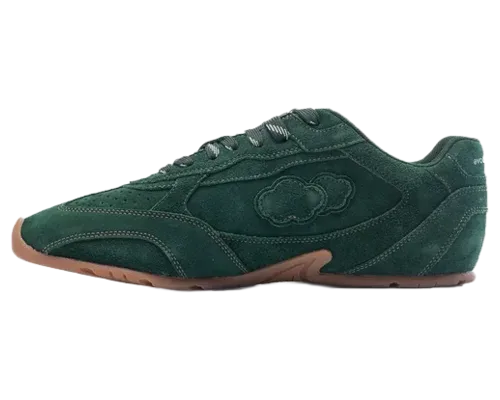
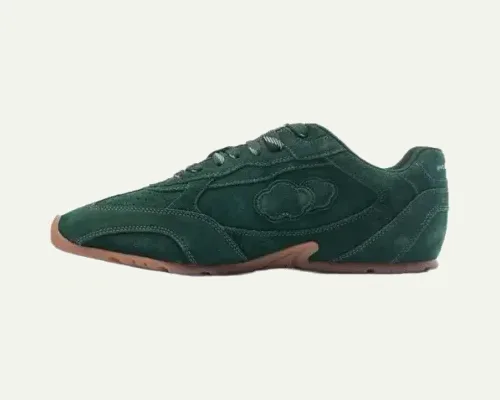
DROP 01: shoes at one scale, sections numbered plainly, receipt without totals
Every closet image is trimmed to the shoe, fitted into the same 400x290 box
and centred on a 500x400 canvas in the page's paper colour, with the product
shots' white backgrounds recoloured to paper so nothing seams; the crates
add a consistent inner pad. Section runheads drop the word "Lot" — the nav
already numbers them and "Lot" belongs to the work — the register counts
"Pair 01–07", and the cover crate is "Lot 00 · The account holder". The
cover loses its bottom rule; the crate's edge is the break. The receipt's
entries/source footer goes.

Claude-Session: https://claude.ai/code/session_01GFvP9XJHX5bu9LUWUzbNcf

diff --git a/drop-01/src/components/Receipt.jsx b/drop-01/src/components/Receipt.jsx
@@ -17,7 +17,7 @@ export default function Receipt() {
     <section id="statement" aria-labelledby="statement-heading" className="border-b-[3px] border-ink">
       <div className="mx-auto max-w-[1440px] px-4 md:px-8 py-14 md:py-28 grid grid-cols-12 gap-6">
         <div className="col-span-12 md:col-span-5 flex flex-col gap-4">
-          <p><span className="runhead">Lot 01 / Statement</span></p>
+          <p><span className="runhead">01 / Statement</span></p>
           <h2 id="statement-heading" className="head text-[clamp(32px,3.8vw,58px)]">
             Statement of account
           </h2>
@@ -69,20 +69,12 @@ export default function Receipt() {
               ))}
             </dl>
             <p className="label mt-5 pt-3 border-t-2 border-dashed border-ink">Off the books</p>
-            <dl>
+            <dl className="mb-1">
               {OFF_THE_BOOKS.map(([k, v]) => (
                 <Line key={k} k={k}>{v}</Line>
               ))}
             </dl>
-            <div className="mt-5 pt-4 border-t-[3px] border-dashed border-ink flex justify-between font-bold uppercase text-sm">
-              <span>Entries</span>
-              <span className="mono-wide">{String(STATEMENT.length + OFF_THE_BOOKS.length).padStart(2, '0')}</span>
-            </div>
-            <div className="flex justify-between font-bold uppercase text-sm">
-              <span>Source</span>
-              <span>Résumé, {DROP.issued.slice(0, 4)}</span>
-            </div>
-            <p className="label mt-4 mono-cond">No amounts fabricated · Keep for your records</p>
+            
           </div>
         </div>
       </div>

diff --git a/drop-01/src/components/Custody.jsx b/drop-01/src/components/Custody.jsx
@@ -10,7 +10,7 @@ export default function Custody() {
       <div className="mx-auto max-w-[1440px] px-4 md:px-8 py-14 md:py-28 grid grid-cols-12 gap-6">
         <div className="col-span-12 flex flex-wrap items-end justify-between gap-4">
           <div>
-            <p><span className="runhead">Lot 06 / Custody</span></p>
+            <p><span className="runhead">06 / Custody</span></p>
             <h2 id="custody-heading" className="head text-[clamp(32px,3.8vw,58px)]">
               Custody register
             </h2>
@@ -22,10 +22,10 @@ export default function Custody() {
           {CUSTODY.map((p) => (
             <li key={p.id} className={`col-span-12 sm:col-span-6 border-2 border-ink p-4 flex flex-col gap-3 bg-paper text-ink ${p.n === '07' ? 'lg:col-span-8' : 'lg:col-span-4'}`}>
               <p className="label flex justify-between">
-                <span className="mono-wide">Lot {p.n}</span>
+                <span className="mono-wide">Pair {p.n}</span>
                 <span>In rotation</span>
               </p>
-              <div className="border-2 border-ink bg-paper aspect-[5/4] lg:aspect-auto lg:h-[300px] flex items-center justify-center overflow-hidden">
+              <div className="border-2 border-ink bg-paper aspect-[5/4] lg:aspect-auto lg:h-[300px] p-3 flex items-center justify-center overflow-hidden">
                 <img src={p.image.src} width={p.image.w} height={p.image.h} alt={`${p.brand} ${p.model}`} loading="lazy" className="block w-full h-full object-contain" />
               </div>
               <h3 className="head-sm text-[clamp(22px,2vw,30px)]">

diff --git a/drop-01/src/components/Cover.jsx b/drop-01/src/components/Cover.jsx
@@ -6,12 +6,12 @@ import { DROP, PERSON, PORTRAIT } from '../data/identity.js';
 export default function Cover() {
   const { dayJob } = PERSON;
   return (
-    <section id="cover" aria-labelledby="cover-heading" className="border-b-[3px] border-ink">
+    <section id="cover" aria-labelledby="cover-heading">
       <div className="mx-auto max-w-[1440px] px-4 md:px-8 py-8 md:py-12">
         <div className="border-[3px] border-ink bg-paper shadow-hard-14 md:grid md:grid-cols-[minmax(0,5fr)_minmax(0,7fr)]">
           <p className="label flex flex-wrap justify-between gap-x-6 px-4 py-2 border-b-[3px] border-ink md:col-span-2">
             <span><span className="mono-wide">DROP {DROP.number}</span> · Issued {DROP.issued}</span>
-            <span>Lot 00 / Cover · In custody</span>
+            <span>Lot 00 · The account holder · In custody</span>
           </p>
           <div className="bg-lime border-b-[3px] md:border-b-0 md:border-r-[3px] border-ink">
             <img src={PORTRAIT.src} width={PORTRAIT.w} height={PORTRAIT.h} alt={PORTRAIT.alt} className="block w-full h-full object-cover" fetchPriority="high" />

diff --git a/drop-01/src/data/closet.js b/drop-01/src/data/closet.js
@@ -7,8 +7,8 @@ import airMaxDawn from '../assets/closet-air-max-dawn.webp';
 import aeonV2 from '../assets/closet-aeon-v2.webp';
 
 // The custody register: seven pairs in rotation. Every image is a lateral
-// view facing right — four were flipped at build time so the row reads as
-// one set. `verified: false` marks a name the brief says to flag, not correct.
+// view facing right, trimmed to the shoe and set at one scale on a paper
+// canvas at build time, so the crates read as one set. `verified: false` marks a name the brief says to flag, not correct.
 export const CUSTODY = [
   { id: 'continental-80', n: '01', brand: 'adidas Originals', model: 'Continental 80', colourway: 'Vegan', image: { src: continental80, w: 500, h: 400 }, verified: true },
   { id: 'blazer-mid-77', n: '02', brand: 'Nike', model: "Blazer Mid '77 Pro Club", colourway: 'Light Bone / Sail / Sesame / Pecan', image: { src: blazerMid77, w: 500, h: 400 }, verified: true },

diff --git a/drop-01/src/components/SignOff.jsx b/drop-01/src/components/SignOff.jsx
@@ -16,7 +16,7 @@ export default function SignOff() {
     <section id="sign-off" aria-labelledby="sign-off-heading" className="border-b-[3px] border-ink">
       <div className="mx-auto max-w-[1440px] px-4 md:px-8 py-14 md:py-28 grid grid-cols-12 gap-6">
         <div className="col-span-12 md:col-span-7 flex flex-col gap-6">
-          <p><span className="runhead">Lot 07 / Sign off</span></p>
+          <p><span className="runhead">07 / Sign off</span></p>
           <h2 id="sign-off-heading" className="head text-[clamp(34px,4.8vw,74px)]">
             So if you’re interested in my work, <span className="text-blue">or just wanna talk sneakers…</span>
           </h2>

diff --git a/drop-01/src/components/Rule.jsx b/drop-01/src/components/Rule.jsx
@@ -5,7 +5,7 @@ export default function Rule() {
   return (
     <section id="rule" aria-labelledby="rule-heading" className="bg-blue text-paper border-b-[3px] border-ink">
       <div className="mx-auto max-w-[1440px] px-4 md:px-8 py-16 md:py-32 grid grid-cols-12 gap-6">
-        <p className="col-span-12"><span className="runhead">Lot 05 / The rule</span></p>
+        <p className="col-span-12"><span className="runhead">05 / The rule</span></p>
         <h2 id="rule-heading" className="sr-only">The rule</h2>
         <blockquote className="col-span-12 md:col-span-11">
           <p className="display tracking-[-0.008em] text-[clamp(34px,6.6vw,118px)]">{RULE.text}</p>

diff --git a/drop-01/src/components/Crafts.jsx b/drop-01/src/components/Crafts.jsx
@@ -7,7 +7,7 @@ export default function Crafts() {
     <section id="other-shoes" aria-labelledby="other-shoes-heading" className="border-b-[3px] border-ink">
       <div className="mx-auto max-w-[1440px] px-4 md:px-8 py-14 md:py-28 grid grid-cols-12 gap-6">
         <div className="col-span-12">
-          <p><span className="runhead">Lot 04 / Other shoes</span></p>
+          <p><span className="runhead">04 / Other shoes</span></p>
           <h2 id="other-shoes-heading" className="head text-[clamp(32px,3.8vw,58px)]">
             The other shoes
           </h2>

diff --git a/drop-01/src/components/Manifest.jsx b/drop-01/src/components/Manifest.jsx
@@ -39,7 +39,7 @@ export default function Manifest({ onOpen }) {
       <div className="mx-auto max-w-[1440px] px-4 md:px-8 py-14 md:py-28 grid grid-cols-12 gap-4 md:gap-6">
         <div className="col-span-12 flex flex-col md:flex-row md:items-end gap-4 md:gap-8">
           <div>
-            <p><span className="runhead">Lot 02 / Manifest</span></p>
+            <p><span className="runhead">02 / Manifest</span></p>
             <h2 id="manifest-heading" className="head text-[clamp(32px,3.8vw,58px)]">
               Manifest — 08 lots
             </h2>

diff --git a/drop-01/src/components/Origin.jsx b/drop-01/src/components/Origin.jsx
@@ -8,7 +8,7 @@ export default function Origin() {
     <section id="kyc" aria-labelledby="kyc-heading" className="border-b-[3px] border-ink">
       <div className="mx-auto max-w-[1440px] px-4 md:px-8 py-14 md:py-28 grid grid-cols-12 gap-6">
         <div className="col-span-12">
-          <p><span className="runhead">Lot 03 / KYC</span></p>
+          <p><span className="runhead">03 / KYC</span></p>
           <h2 id="kyc-heading" className="head text-[clamp(32px,3.8vw,58px)]">
             This obsession started in {ORIGIN.year}
           </h2>
